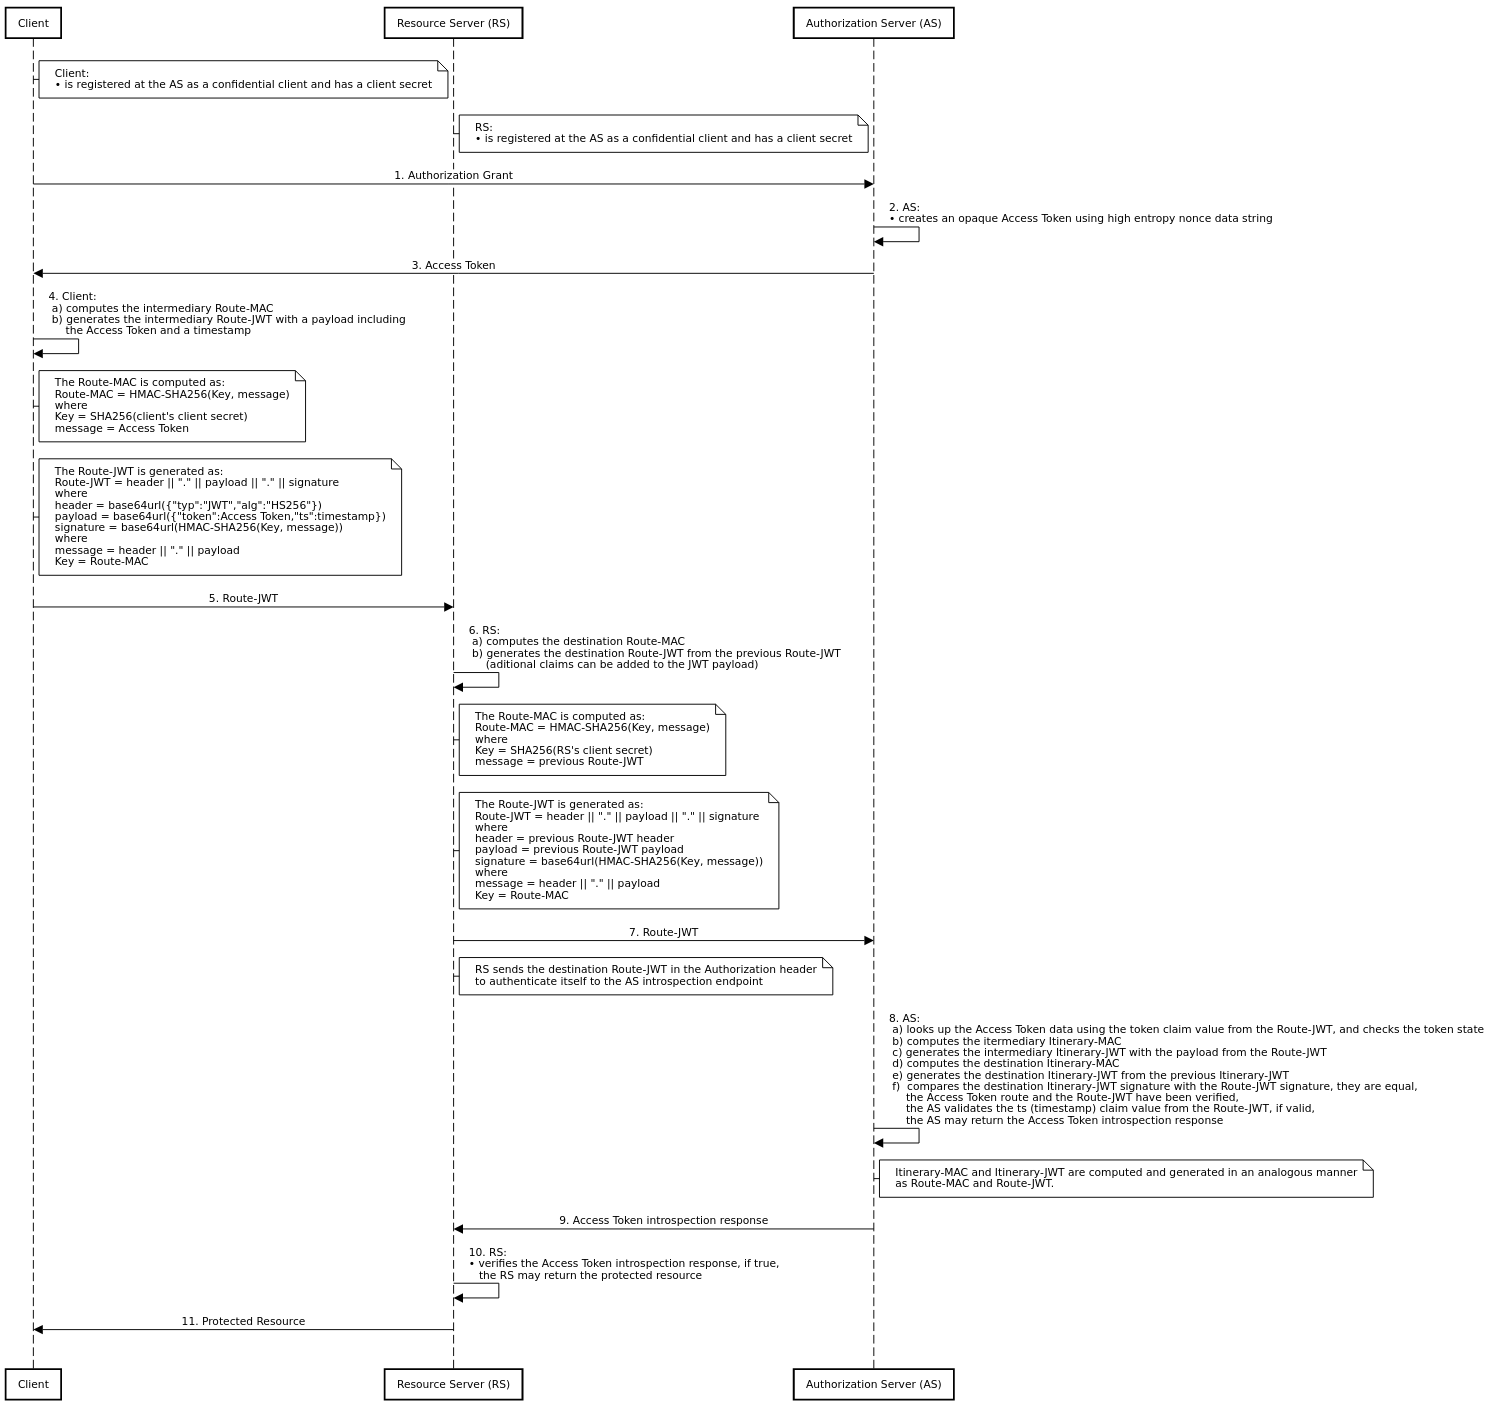
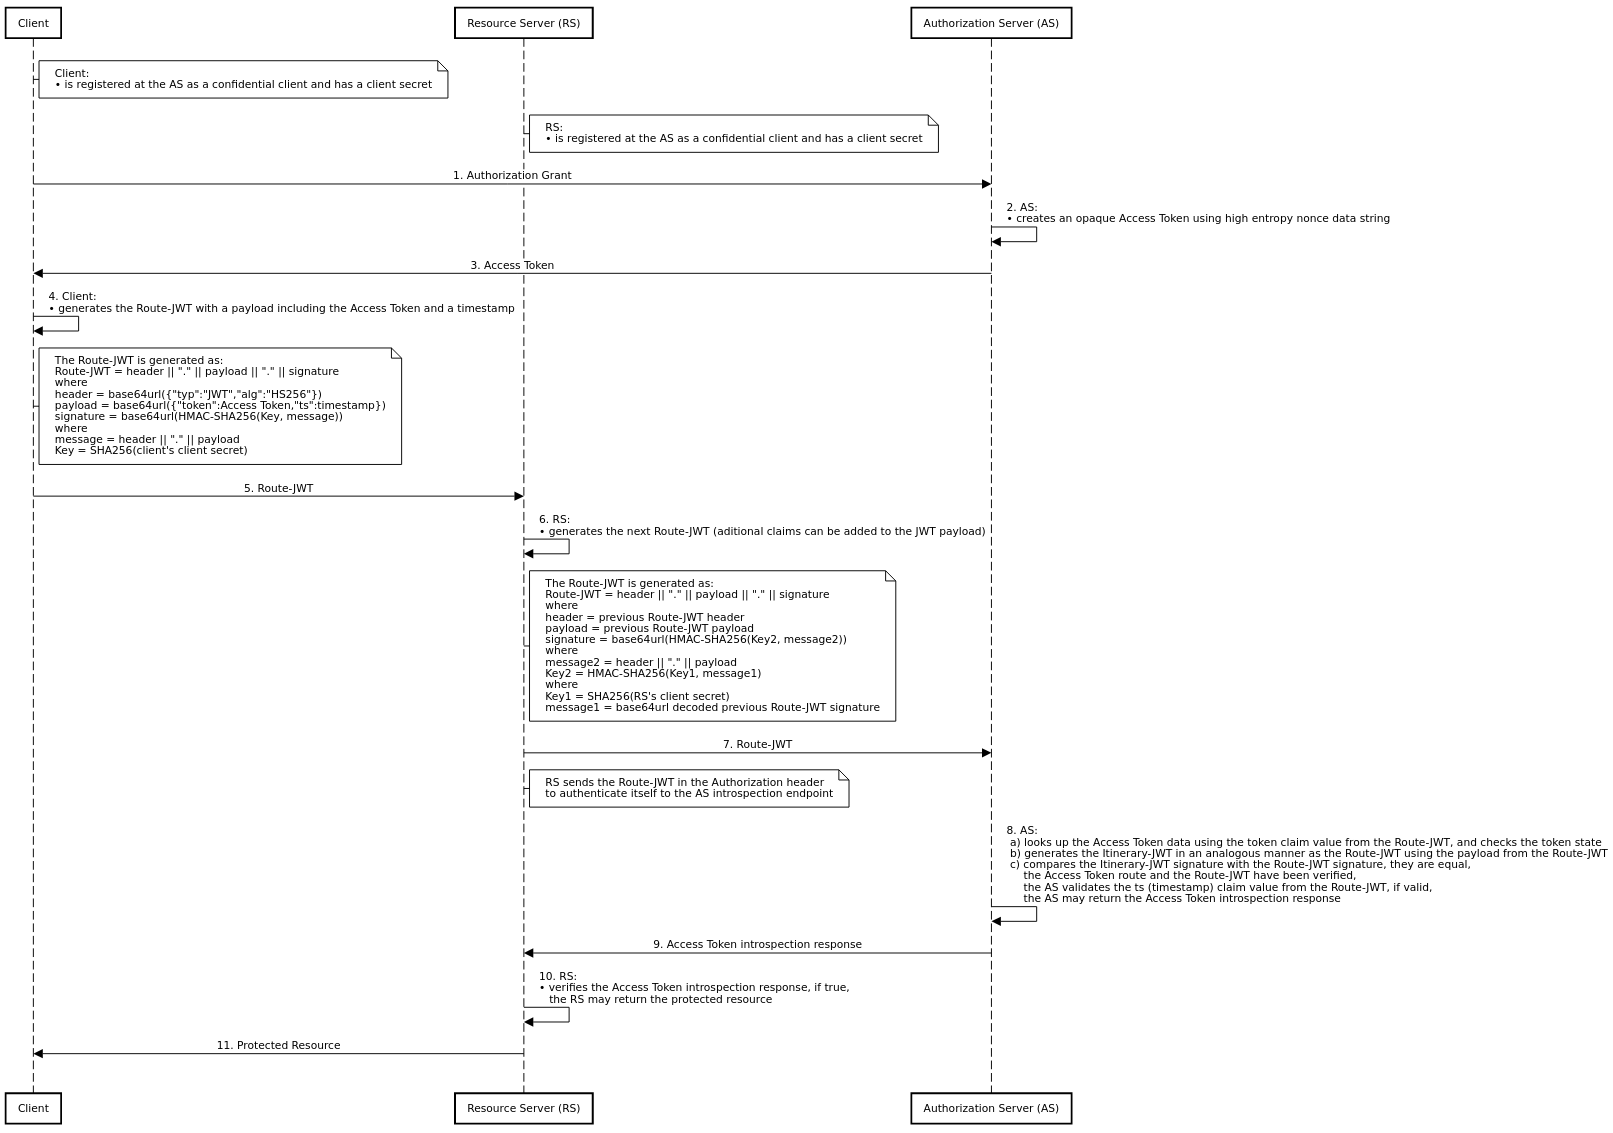
Itinerary-Bound Tokens cleanup

diff --git a/README.md b/README.md
@@ -127,6 +127,8 @@ Healthcare and enterprise cross-domain services e.g. email, file sharing, instan
 
 ## Concept
 
+HMAC(HMAC(K4, HMAC(HMAC(K3, HMAC(HMAC(K2, HMAC(K1, m1)), m2)), m3)), m4)
+
 ## Use Patterns
 
 ### Itinerary-Bound OAuth2 Access Tokens
